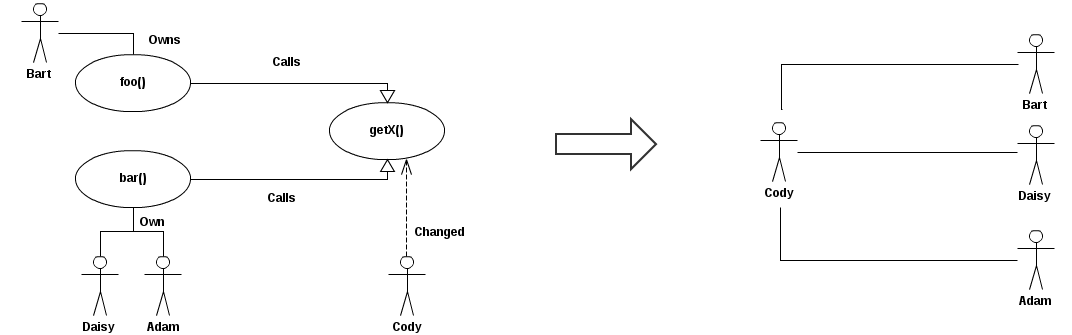
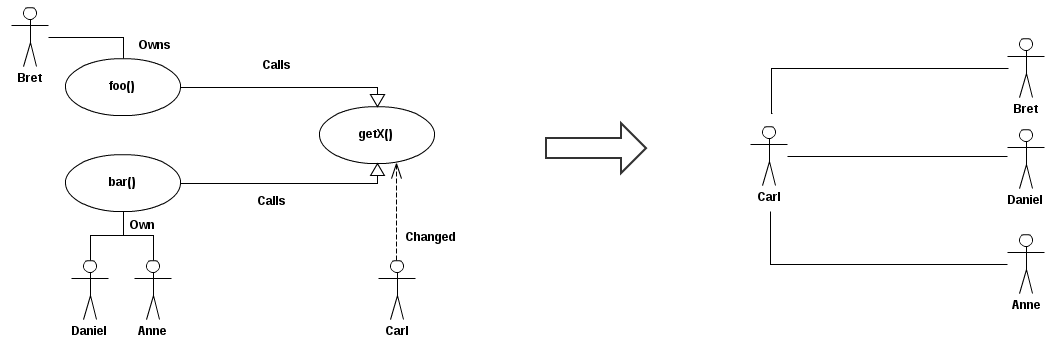
Technical paper needs to be proof read then given for 2nd Dana edit.

diff --git a/TechnicalNetworks/paper.tex b/TechnicalNetworks/paper.tex
@@ -18,7 +18,7 @@
 
 % Paper title
 % Can use linebreaks \\ within to get better formatting as desired
-\title{Finding Harmful Structures Among Developer Networks}
+\title{Finding Failure Inducing Developer Pairs Within Developer Networks}
 
 % Authors names
 \author{\IEEEauthorblockN{Jordan Ell}
@@ -83,8 +83,8 @@ to also promote the idea of socio-technical congruence with coordination recomme
 \begin{figure*}[tb!]
 \centering
 \includegraphics[width=0.9\textwidth]{images/TecNetwork}
-\caption{A technical network for a code change. Cody has changed method getX() which is being
-called by Bart's method foo() as well as Daisy and Adam's method bar().\label{fig:network}}
+\caption{A technical network for a code change. Carl has changed method getX() which is being
+called by Bret's method foo() as well as Daniel and Anne's method bar().\label{fig:network}}
 \end{figure*}
 
 \section{Methodology}
@@ -180,9 +180,9 @@ The pairings are ranked by their respective FI values(Table~\ref{tab:ratio}).
 \hline
 Pair & Successful & Failed & FI & P-Value\\
 \hline
-(Daisy, Adam)	&	0&	14&	1.0000& 0.0001249		\\
-(Cody, Bart)	&	1&	12&	0.9190& 0.003468	\\
-(Emma, Fred)	&	1&	9&	0.8948& 0.02165      \\
+(Daniel, Anne)	&	0&	14&	1.0000& 0.0001249		\\
+(Carl, Bret)	&	1&	12&	0.9190& 0.003468	\\
+(Emily, Frank)	&	1&	9&	0.8948& 0.02165      \\
 \hline
 \end{tabular}
 \end{center}
@@ -193,14 +193,13 @@ Pair & Successful & Failed & FI & P-Value\\
 \section{Conclusion and Future Work}
 Technical dependencies are often used to predict software failures
 in large software system~\cite{Pinzger:2008:DNP, Zimmermann:2008:PDU, Kim:2006:AIB}. 
-We have found evidence that technical dependencies predict failures based on contributor
-dependencies found in changesets. Through the contributor dependencies,
-we can also give recommendations to contributors about whom to contact to
-resolve potential issues.
+This paper has presented a method for detecting failure inducing pairs of developers inside
+of technical networks based on code changes. These developer pairs can be used in the prediction
+of future bugs as well as provide coordination reccomendations for developers within a project.
 
-In future work, we will add communication networks on a per commit basis as well. We plan
-to investigate the congruence of these social and technical networks and its effects on 
-software quality.
+In future work, the adding of communication networks on a per commit basis is planned. In this,
+the investigation of social and technical congruence on these networks and its effects on
+software quality will be studied.
 
 
 
